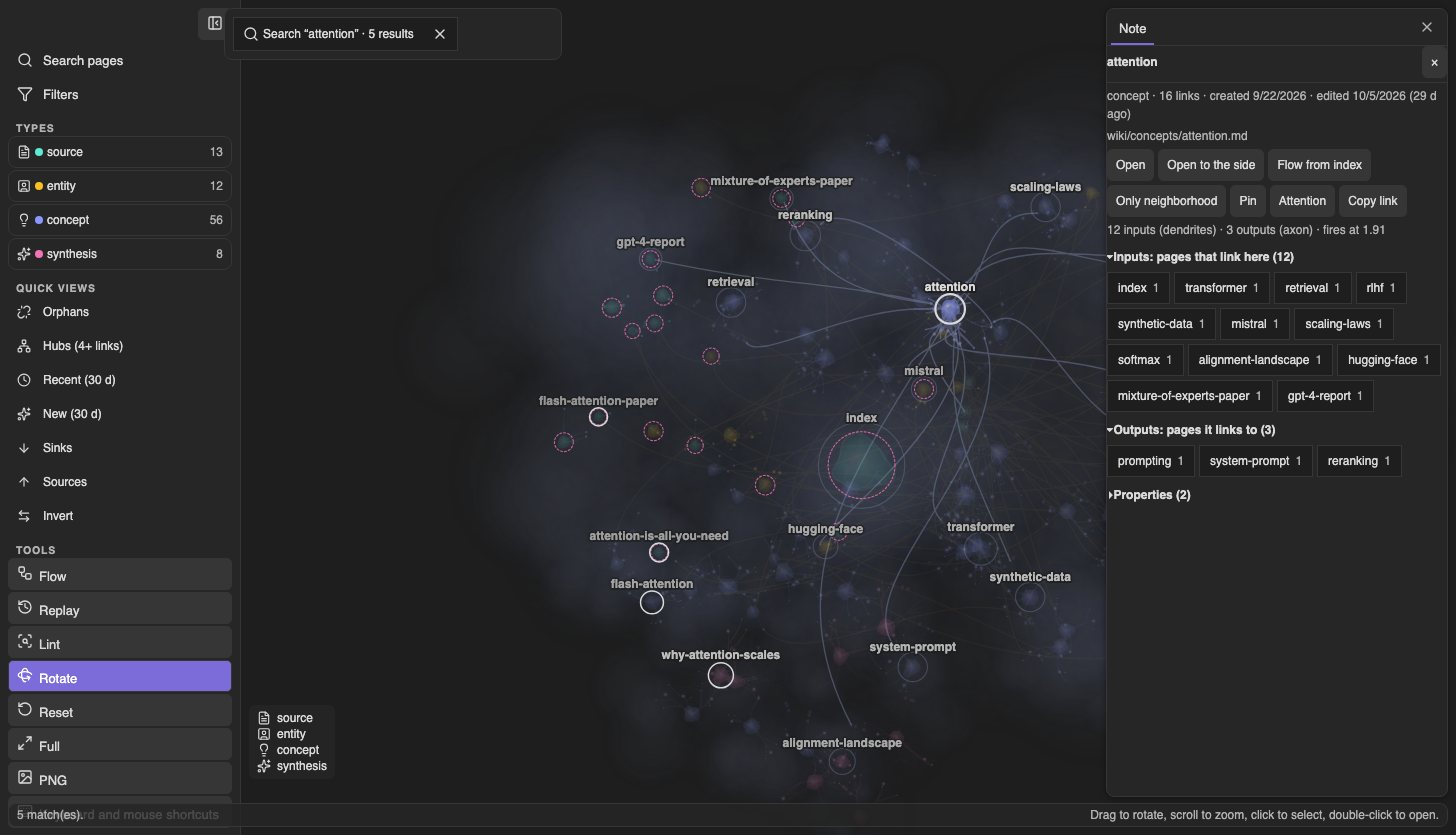
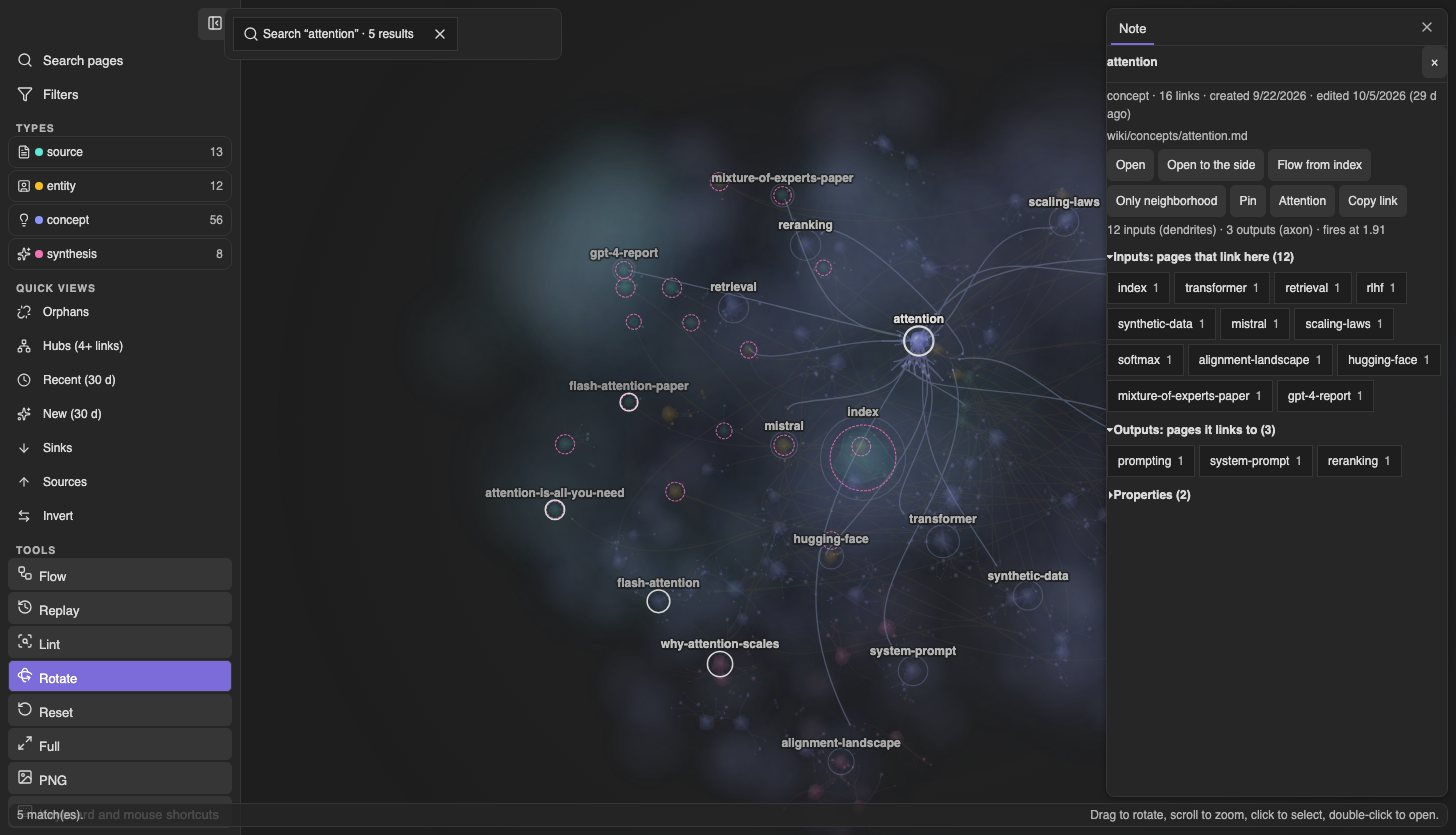
feat: remove the type legend from the canvas corner (#33)
Claude-Session: https://claude.ai/code/session_01AK5uJut3kdmNhCoDa5wPPg

diff --git a/src/view.ts b/src/view.ts
@@ -1440,10 +1440,10 @@ export class BrainView extends ItemView {
 
 	private renderLegend(labels: string[] | null): void {
 		this.legend.empty();
-		if (!this.engine) return;
+		if (!this.engine || !labels) return; // coloured by type: the Types chips in the rail already name every colour, so the corner stays clear. The key only shows when the colours mean something else (age, links, folder)
 		const typeIcons: Record<PageType, string> = { source: "file-text", entity: "square-user", concept: "lightbulb", synthesis: "sparkles" };
 		TYPES.forEach((type, i) => {
-			const raw = labels ? labels[i] : "@type." + type;
+			const raw = labels[i];
 			if (!raw) return;
 			const row = this.legend.createDiv({ cls: "llm-wiki-brain-legend-row" });
 			const iconSpan = row.createSpan({ cls: "llm-wiki-brain-legend-icon" });

diff --git a/styles.css b/styles.css
@@ -1015,6 +1015,9 @@
 	font-size: var(--font-ui-smaller);
 	pointer-events: none;
 }
+.llm-wiki-brain-legend:empty {
+	display: none;
+}
 .llm-wiki-brain-legend-row {
 	display: flex;
 	align-items: center;

diff --git a/README.md b/README.md
@@ -4,7 +4,7 @@ See your wiki as a living 3D brain inside Obsidian. Each page is a neuron, each 
 
 **Website and live demo: https://jonyfs.github.io/llm-wiki-brain/** (the real view and engine running in the browser on a made-up wiki; in English, Portuguese, Spanish and French).
 
-![The plugin's own view on a demo vault: type chips and toolbar at the top, search with an active filter chip and a result list, a selected page with its inputs and outputs, a Flow packet in flight, the legend and the status line](docs/images/brain.jpg)
+![The plugin's own view on a demo vault: type chips and toolbar at the top, search with an active filter chip and a result list, a selected page with its inputs and outputs, a Flow packet in flight and the status line](docs/images/brain.jpg)
 
 *Rendered by the plugin's real view, engine and `styles.css` on a synthetic demo vault (generic LLM-wiki page names), in Obsidian's default dark theme. See `scripts/harness/ui.html`.*
 
@@ -100,7 +100,7 @@ Filters, search, selection and camera are saved with the pane, so the view comes
 
 ## Color, size and legend
 
-In the Filters panel: **Color by** type (default), folder, tag, age or links, and **Size by** links or recency. A legend in the corner names the four colors. Neuron detail (settings): Auto lowers detail when frames get slow, High keeps full neurons, Simple draws spheres.
+In the Filters panel: **Color by** type (default), folder, tag, age or links, and **Size by** links or recency. By type, the Types chips in the rail name the colors; for the other modes a legend in the corner names the four colors. Neuron detail (settings): Auto lowers detail when frames get slow, High keeps full neurons, Simple draws spheres.
 
 ## Export
 

diff --git a/DESIGN.md b/DESIGN.md
@@ -17,7 +17,7 @@ An OPERATE interface: a tool you work in, not a page you read. The brain is the 
 
 ## Colour
 
-Type colours (also the legend):
+Type colours (named by the Types chips in the rail; the corner legend appears only for the other colour modes):
 
 | Type | Dark | Light | Mark in the soma |
 |---|---|---|---|
